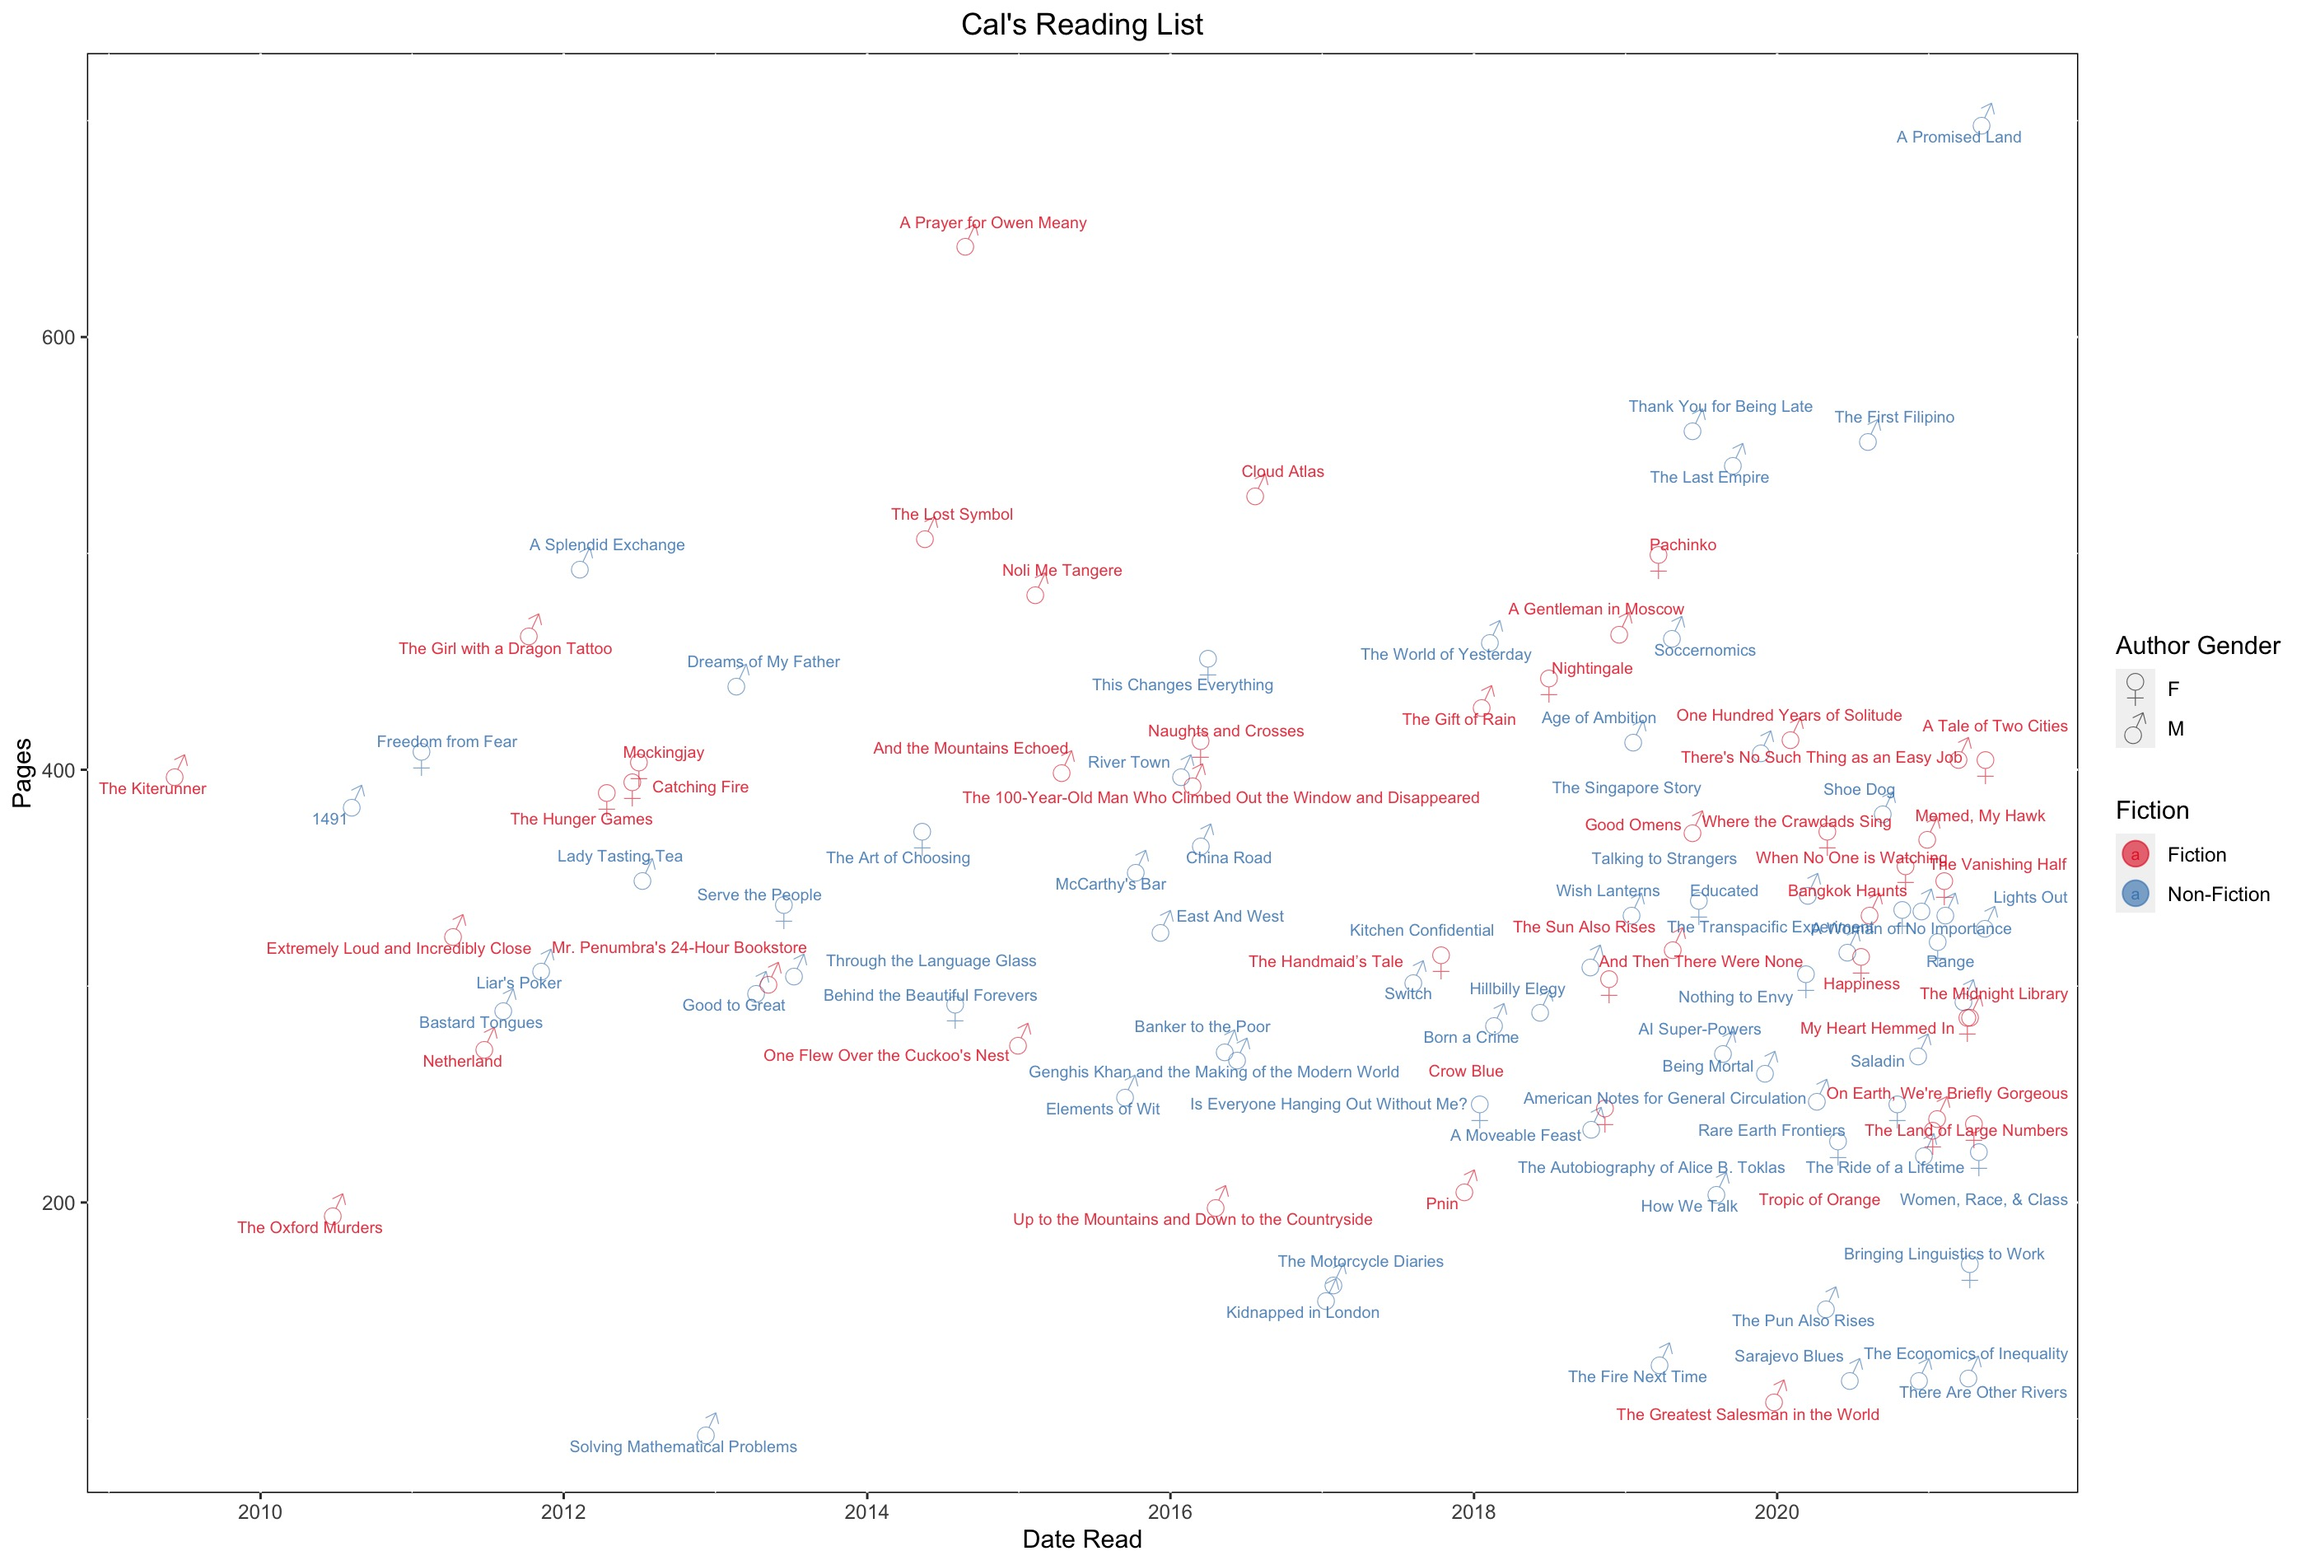
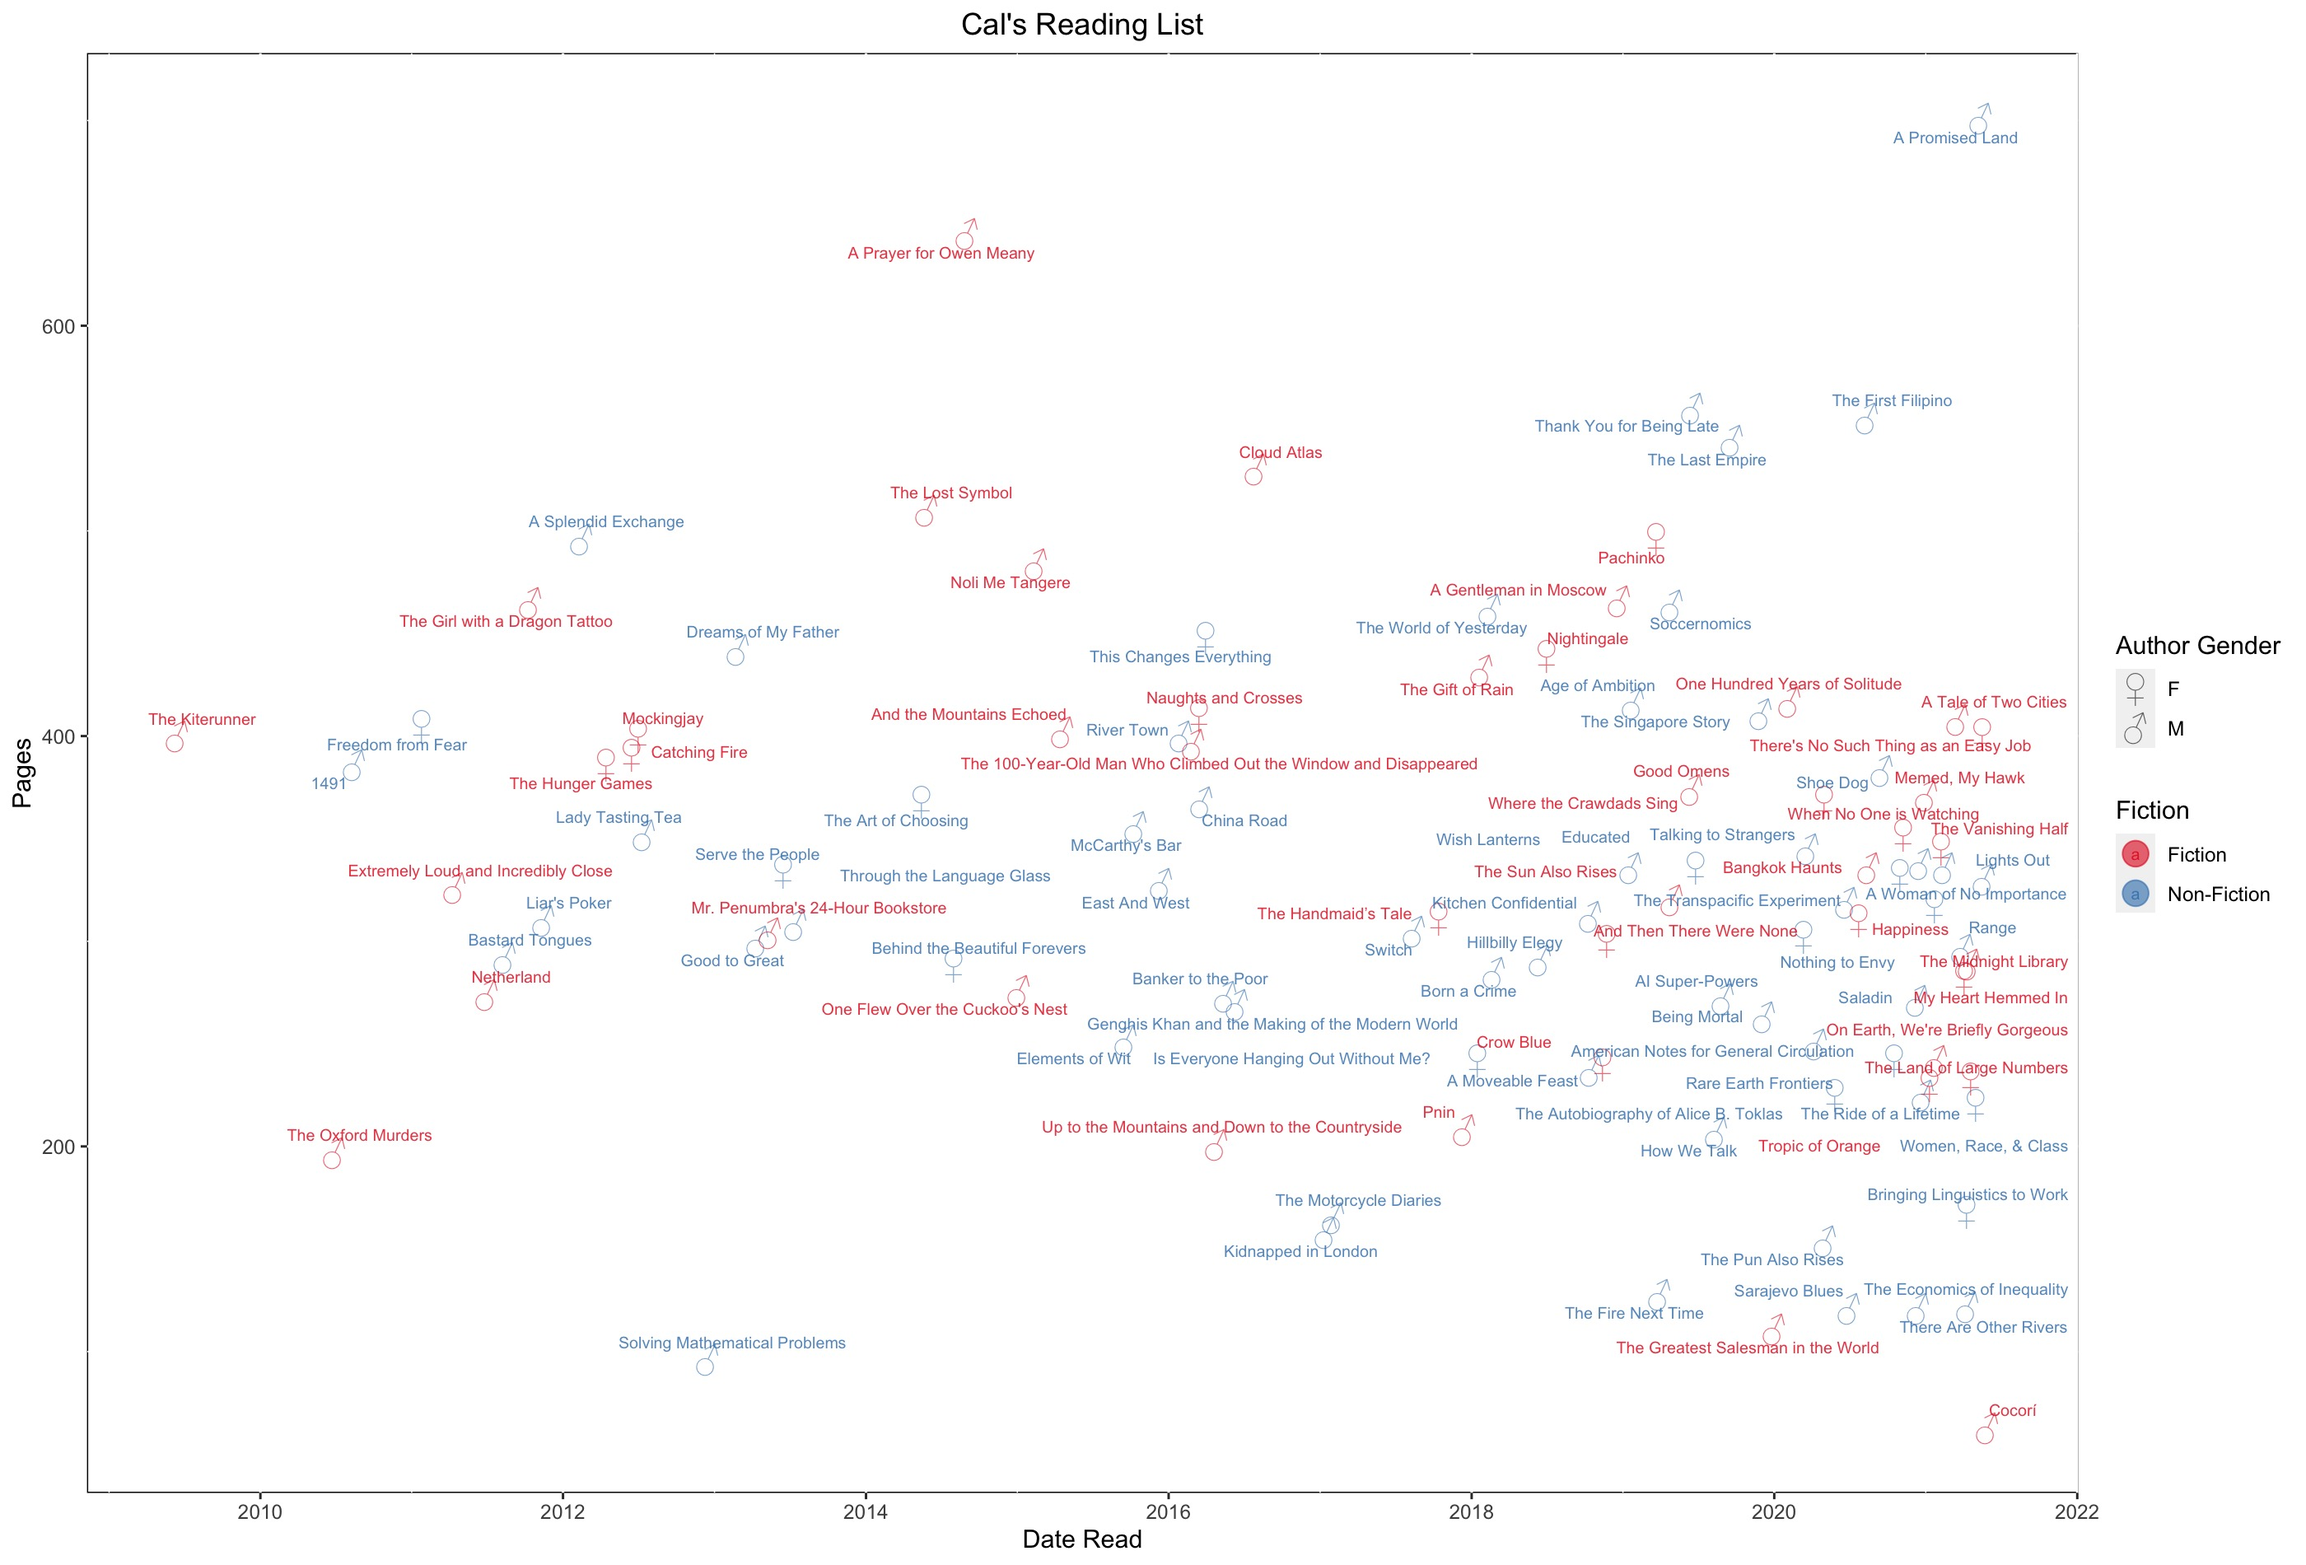
feat: new year read comparison plot
Grouping the density of years read for all users, comparing with one user
and calculating the difference.

diff --git a/Books/append_to_export.py b/Books/append_to_export.py
@@ -4,6 +4,7 @@ import pandas as pd
 import re
 
 def append_scraping(goodreads_data):
+	goodreads_data.columns = [c.replace(' ', '.') for c in goodreads_data.columns]
 	urls = scrape_goodreads.return_urls(goodreads_data)
 	scraped_df = scrape_goodreads.apply_added_by(urls)
 	scraped_df.drop(columns = ['Title', 'Author', 'Publish_info'], inplace=True)
@@ -24,20 +25,28 @@ def add_to_existing_export(file_path_existing, file_path_new):
 	return diff_scraped
 
 def compare_dfs(df1, df2, index_column):
+	common_cols = [c for c in df2.columns if c in df1.columns]
 	for t in df2[index_column]:
 		df1_sub = df1[df1[index_column] == t]
 		df1_sub = df1_sub.head(1) # in case of duplicates, just keep the first match
 		df2_sub = df2[df2[index_column] == t]
-		common_cols = [c for c in df2_sub.columns if c in df1_sub.columns]
-		for c in common_cols:
+		
+		for c in ['Date.Read']:
 			if df1_sub.iloc[0][c] != df2_sub.iloc[0][c]:
-				df1_sub[c] = df2_sub[c]
-				df1.loc[df1[index_column]==t, c] = df2_sub[c]
+				print(t)
+				df1.loc[df1[index_column]==t, c] = df2_sub.iloc[0][c]
 	return df1
 
 def update_goodreads(df1, df2, index_column):
 	df2.columns = [c.replace(' ', '.') for c in df2.columns]
-	return compare_dfs(df1, df2, index_column)
+	# save all new books
+	df2_unupdated = df2[~df2[index_column].isin(df1[index_column])]
+	# go over the old books that are in common with existing dataset
+	df2 = df2[df2[index_column].isin(df1[index_column])]
+	df1_updated = compare_dfs(df1, df2, index_column)
+	df2_updated = append_scraping(df2_unupdated)
+	df_updated = pd.concat([df1_updated, df2_updated])
+	return df_updated
 
 if __name__ == "__main__":
 	file_path = sys.argv[1]

diff --git a/Books/scrape_goodreads.py b/Books/scrape_goodreads.py
@@ -104,9 +104,9 @@ def read_goodreads_export(file_path):
         goodreads_data = pd.read_excel(file_path)
     return goodreads_data
 
-def return_urls(goodreads_data):
+def return_urls(goodreads_data, id_col = "Book.Id"):
     goodreads_data["Title"] = goodreads_data["Title"].astype(str)
-    urls = goodreads_data.apply(lambda x: create_url(x["Book Id"], x["Title"]), axis=1)
+    urls = goodreads_data.apply(lambda x: create_url(x[id_col], x["Title"]), axis=1)
 
     return urls
 
